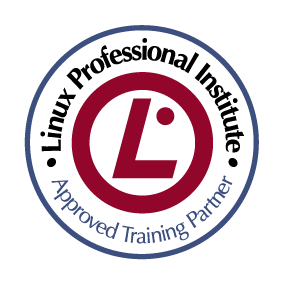
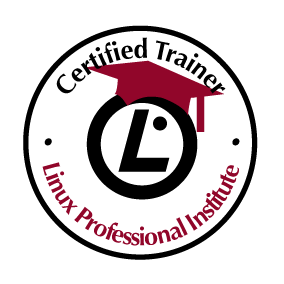
offers

diff --git a/partners/templates/offers.html b/partners/templates/offers.html
@@ -17,7 +17,7 @@
       <div class='prtn-box-inner prtn-box-services'>
         <h3>Service Provider</h3>
         <div class='prtn-box-icon'>
-          <img src='{% static "lpi/lpi-csp.png" %}'>
+          <img src='{% static "lpi/lpi-sp.png" %}'>
         </div>
         <div class='prtn-box-price'>
           GRATUITO
@@ -149,7 +149,9 @@
     <li class='prtn-box col-sm-3 prtn-box-1 col-sm-offset-3'>
       <div class='prtn-box-inner prtn-box-teachers'>
         <h3>Certified Trainer</h3>
-        <div class='prtn-box-icon'></div>
+        <div class='prtn-box-icon'>
+          <img src='{% static "lpi/lpi-ct.png" %}'>
+        </div>
         <div class='prtn-box-price'>
           50 &euro;/anno<br>
           IL PRIMO ANNO &Egrave; GRATUITO!
@@ -329,7 +331,7 @@
       <div class='prtn-box-inner prtn-box-training' style='height:1050px'>
         <h3>Linux Professionals Approved Training Partner</h3>
         <div class='prtn-box-icon'>
-          <img src='{% static "lpi/lpi-atp.png" %}'>
+          <img src='{% static "lpi/lpi-atp-pro.png" %}'>
         </div>
         <div class='prtn-box-price'>
           650  &euro;/anno
@@ -387,7 +389,7 @@
         <div class='prtn-box-inner' style='height:800px'>
           <h3>Linux Essentials Academic<br> PARTNER</h3>
           <div class='prtn-box-icon'>
-            <img src='{% static "lpi/lpi-aap.png" %}'>
+            <img src='{% static "lpi/lpi-aap-le.png" %}'>
           </div>
           <div class='prtn-box-price'>
           250  &euro;/anno
@@ -421,7 +423,7 @@
         <div class='prtn-box-inner' style='height:800px'>
           <h3>Linux Professionals Academic <br>PARTNER</h3>
           <div class='prtn-box-icon'>
-            <img src='{% static "lpi/lpi-aap.png" %}'>
+            <img src='{% static "lpi/lpi-aap-pro.png" %}'>
           </div>
           <div class='prtn-box-price'>
           250  &euro;/anno
@@ -463,7 +465,7 @@
         <div class='prtn-box-inner' style='height:950px'>
           <h3>Linux Essentials Academy<br>GOLD</h3>
           <div class='prtn-box-icon'>
-            <img src='{% static "lpi/lpi-aap.png" %}'>
+            <img src='{% static "lpi/lpi-aap-le-gold.png" %}'>
           </div>
           <div class='prtn-box-price'>
           650  &euro;/anno
@@ -502,7 +504,7 @@
         <div class='prtn-box-inner' style='height:950px'>
           <h3>Linux Essentials Academy<br>PLATINUM</h3>
           <div class='prtn-box-icon'>
-            <img src='{% static "lpi/lpi-aap.png" %}'>
+            <img src='{% static "lpi/lpi-aap-le-platinum.png" %}'>
           </div>
           <div class='prtn-box-price'>
           1.150  &euro;/anno
